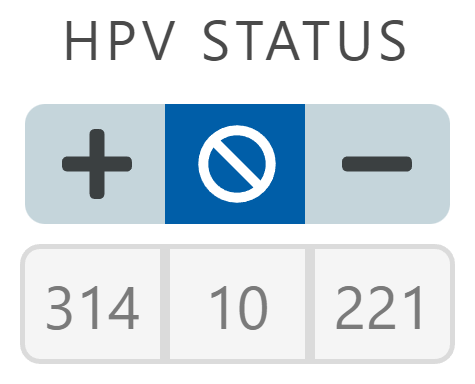
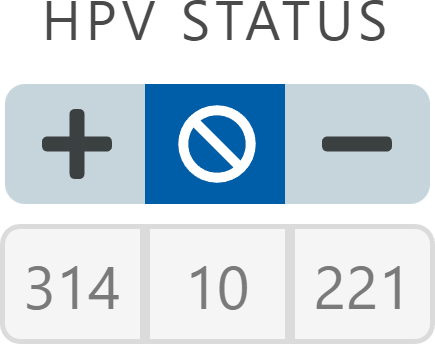
solve figure wrap issue

diff --git a/content/lyprox/implementation.tex b/content/lyprox/implementation.tex
@@ -97,26 +97,65 @@ The part of the \gls{gui} we originally set out to build with Django can be foun
 
 On the front end, it contains numerous buttons and switches, most of which are versions of the \acrshort{html} elements \texttt{RadioButton} and \texttt{CheckBox}, styled with custom \acrshort{css} definitions. Of those buttons, some are what we termed \emph{three-way toggle buttons}, and they allow the user to make an optional binary choice. This means one may select ``true/positive/+'', ``false/negative/--'' or ``neutral'' where the latter corresponds to not making a choice w.r.t. this particular criterion.
 
-\begin{tabular}{m{0.2\textwidth}m{0.75\textwidth}}
-    \setlength{\tabcolsep}{0pt}
-    \includegraphics[width=0.2\textwidth]{figures/hpv_neutral.png} & One such button is shown here on the left. Its switch is in the neutral middle \faIcon{ban} position, as indicated by the highlight in blue, and hence no selection is performed w.r.t. its selection criteria (\gls{hpv} status here). Below the button it shows how many patients in the current selection are \gls{hpv} positive (left number, 314 here), \gls{hpv} negative (right number, 221 here) or do not have \gls{hpv} related information available (number in the middle, 10 here).
-\end{tabular}
+\begin{samepage}
+    \setlength\intextsep{0pt}
+    \begin{wrapfigure}{l}{0.2\textwidth}
+        \includegraphics[width=0.18\textwidth]{figures/hpv_neutral.png}
+    \end{wrapfigure}
+    One such button is shown here on the left. Its switch is in the neutral middle \faIcon{ban} position, as indicated by the highlight in blue, and hence no selection is performed w.r.t. its selection criteria (\gls{hpv} status here). Below the button it shows how many patients in the current selection are \gls{hpv} positive (left number, 314 here), \gls{hpv} negative (right number, 221 here) or do not have \gls{hpv} related information available (number in the middle, 10 here).
 
-\begin{tabular}{m{0.2\textwidth}m{0.75\textwidth}}
-    \setlength{\tabcolsep}{0pt}
-    \includegraphics[width=0.2\textwidth]{figures/hpv_positive.png} & To select all \gls{hpv}-positive patients, a user would have to click the \faIcon{plus} symbol. The highlight then switches to the left and after applying the selection (e.g. by clicking the orange ``Compute'' button that appears on the lower right side of the data viewer in \cref{fig:lyprox:data_viewer}) the numbers below the toggle button update as well: Their meaning remains the same, but since the patient selection now only contains \gls{hpv} positive patients, those that are \gls{hpv} negative or have an unknown \gls{hpv} state are filtered out.
-\end{tabular}
+    \begin{wrapfigure}{l}{0.2\textwidth}
+        \includegraphics[width=0.18\textwidth]{figures/hpv_positive.png}
+    \end{wrapfigure}
+    To select all \gls{hpv}-positive patients, a user would have to click the \faIcon{plus} symbol. The highlight then switches to the left and after applying the selection (e.g. by clicking the orange ``Compute'' button that appears on the lower right side of the data viewer in \cref{fig:lyprox:data_viewer}) the numbers below the toggle button update as well: Their meaning remains the same, but since the patient selection now only contains \gls{hpv} positive patients, those that are \gls{hpv} negative or have an unknown \gls{hpv} state are filtered out.
 
-\begin{tabular}{m{0.2\textwidth}m{0.75\textwidth}}
-    \setlength{\tabcolsep}{0pt}
-    \includegraphics[width=0.2\textwidth]{figures/hpv_negative.png} & Lastly, to keep only \gls{hpv} negative patients in the selection, the switch has to be brought into the position shown here on the left by clicking the \faIcon{minus} symbol. Again, after updating/recomputing, the only patients that remain selected are the ones that are \gls{hpv} negative.
-\end{tabular}
+    \begin{wrapfigure}{l}{0.2\textwidth}
+        \includegraphics[width=0.18\textwidth]{figures/hpv_negative.png}
+    \end{wrapfigure}
+    Lastly, to keep only \gls{hpv} negative patients in the selection, the switch has to be brought into the position shown here on the left by clicking the \faIcon{minus} symbol. Again, after updating/recomputing, the only patients that remain selected are the ones that are \gls{hpv} negative.
+
+    
+\end{samepage}
 
 As can be seen in \cref{fig:lyprox:data_viewer}, the overall layout  of the interface is divided into five blocks allowing the user to filter patients w.r.t. five different aspects:
 
 \begin{itemize}
     \item \textbf{Patient details}~(left column, top box): Four three-way toggle buttons allow patient selection by general information: Whether patients were reported to be smokers, their treatment included a \acrlong{nd}, they were \gls{hpv} positive/negative and whether they were $N_0$ or $N_+$ patients.
-    \item \textbf{Primary tumor}~(left column, bottom box): Offers selection criteria related to the tumor: 
+    \item \textbf{Primary tumor}~(left column, bottom box): Offers selection criteria related to the tumor. Two toggle buttons allow selection w.r.t. to the lateralization (central/asymmetric and extension over the mid-sagittal plane) and multiple buttons to (de)select patient with tumors originating in various locations and subsites. Lastly in that box, one can (de)select tumors of certain T-stages.
+    \item \textbf{Datasets}~(right column, top bar): In this row we list the different datasets and how many patients of each cohort are included in the selection. Here, the user can also (de)select patients from any cohort that they do (not) want to be included.
+    \item \textbf{Modalities}~(right column, second bar from top): Many patients might have conflicting information on their \gls{lnl} involvement. E.g., if a \gls{ct} scan reports no involvement, but the pathologist finds microscopic metastases after a \gls{nd}. With the buttons in this bar, one can keep only those patients that have at least one of the selected modalities in their information. Conflicts are then lifted using the method chosen in the drop-down menu on the right. A basic example would be the logical OR, which we used in \cref{chap:dataset_usz}. It displays a patient's \gls{lnl} as metastatic as soon as one of the selected modalities does so. The naive maximum likelihood estimate employed in \cref{chap:dataset_clb} on the other hand considers the trustworthiness of a (diagnostic) modality based in its sensitivity and specificity (see \cref{subsec:dataset_clb:methods:max_llh} for more details).
+    \item \textbf{Contra- \& ipsilateral Involvement}~(right column, two large boxes next to each other): The main information is displayed here. Within each box for the corresponding side, we display the prevalence of metastases per \gls{lnl} as observed in the set of included patients. Every level is shown in its own labelled row that is also equipped with another three-way toggle button. Setting it to \faIcon{plus} (and recomputing) causes the interface to only show patients with observed involvement in that \gls{lnl}. For example, we can check how many patients show ipsilateral \gls{lnl} IV involvement but a healhty \gls{lnl} V, by setting the button in row ``IV'' of the right box to \faIcon{plus}, and in row ``V both'' to \faIcon{minus}. Subsequently, pressing the orange ``compute'' button on the bottom right of the page displays the interface as shown in \cref{fig:lyprox:data_viewer_lnl_example}. Right next to the toggle buttons we plot how many patients in the selected cohort show involvement of the respective \gls{lnl}. It is a horizontally stacked bar plot: The red bar indicates the portion of patients with metastases in the level, the green bar the portion of those without any detected cancer and a gray bar indicates the level was not diagnosed or resected for the corresponding portion of patients.\\
+    [3mm]
+    \begin{tikzpicture}
+        \node (image) at (0,0) {
+            \includegraphics[width=0.92\textwidth]{figures/lnl_bar.png}
+        };
+        \draw[latex-, very thick, uszorange] (-6.1,1.2) -- (-5.8,1.9) node[above, uszorange]{\small LNL label};
+        \draw[latex-, very thick, uszorange] (-4.47,-1.225) -- ++(0.0,-0.5) node[below, uszorange]{\small toggle button};
+        \draw[latex-, very thick, uszorange] (-2.7,0.95) edge (-2.0,1.65)
+        (-1.5,1.2) -- (-2.0,1.65)
+        node[above, uszorange, text width=4.5cm, align=center]{\small number \& portion of patients with involvement};
+        \draw[latex-, very thick, uszorange] (3.2,1.2) edge (3.7,1.65)
+        (6.05,0.95) -- (3.7,1.65)
+        node[above, uszorange, text width=5cm, align=right]{\small number \& portion of patients with a healthy level};
+        \draw[latex-, very thick, uszorange] (1.5,-0.2) edge (0.5,-1.725)
+        (0.0,-1.2) -- (0.5,-1.725)
+        node[below, uszorange, text width=6cm, align=center]{\small number \& portion of patients where LNL status is unknown};
+    \end{tikzpicture}\\
+    [3mm]
+    Above we have labelled the three rows showing the prevalence of involvement in level II contralaterally, along with that \gls{lnl}'s sublevels.
+    \item \textbf{Controls}~(right column, bottom bar): In this last box we have placed a few controls: On the left, we have a normal toggle button, allowing the user to switch between percentages and absolute numbers. In case the former is selected, all patient counts in the interface will be replaced by percentages. On the right we have three buttons (from left to right): The ``\faIcon{question} Help'' button redirecting to LyProX' \href{https://lyprox/dashboard/help}{help page}, next a button displaying the total number of patients in selection and linking to a list of them, and finally the bright orange ``\faIcon{cogs} Compute'' button which needs to be pressed for the interface to update. We have considered automatically updating the dashboard after each user input, e.g. when a toggle button is switched. However, in that case the number of requests sent to the server would be much larger and the perceived responsiveness of the interface might suffer, because after each click there would be a split-second delay until all numbers and bars update.
 \end{itemize}
+
+\begin{figure}
+    \centering
+    \includegraphics[width=1.0\textwidth, frame]{figures/data_viewer_lnl_example.png}
+    \caption[
+        The data viewer showing a scenario of two involved LNLs
+    ]{
+        The data viewer with the following filtering applied: It includes only patients with reported metastases (based on the consensus of selected modalities) in \gls{lnl} IV, without malignancies found in \gls{lnl} V. The three-way toggle buttons whose setting has been changed are outlined in orange.
+    }
+    \label{fig:lyprox:data_viewer_lnl_example}
+\end{figure}
 
 \end{document}

diff --git a/preamble.tex b/preamble.tex
@@ -15,12 +15,17 @@
 \usepackage[export]{adjustbox}
 \usepackage{wrapfig}
 \usepackage{sidecap}
+\usepackage{tikz}
+\usetikzlibrary{calc}
+\usepackage{xcolor}
+\definecolor{uszorange}{HTML}{F17900}
 
 %% Layout
 \usepackage[a4paper,top=25mm,bottom=25mm]{geometry}
 \usepackage{parskip}
 \usepackage{afterpage}
 \usepackage{pdflscape}
+\usepackage{linegoal}
 
 %% Setting up the headers and footers
 \usepackage{fancyhdr}
